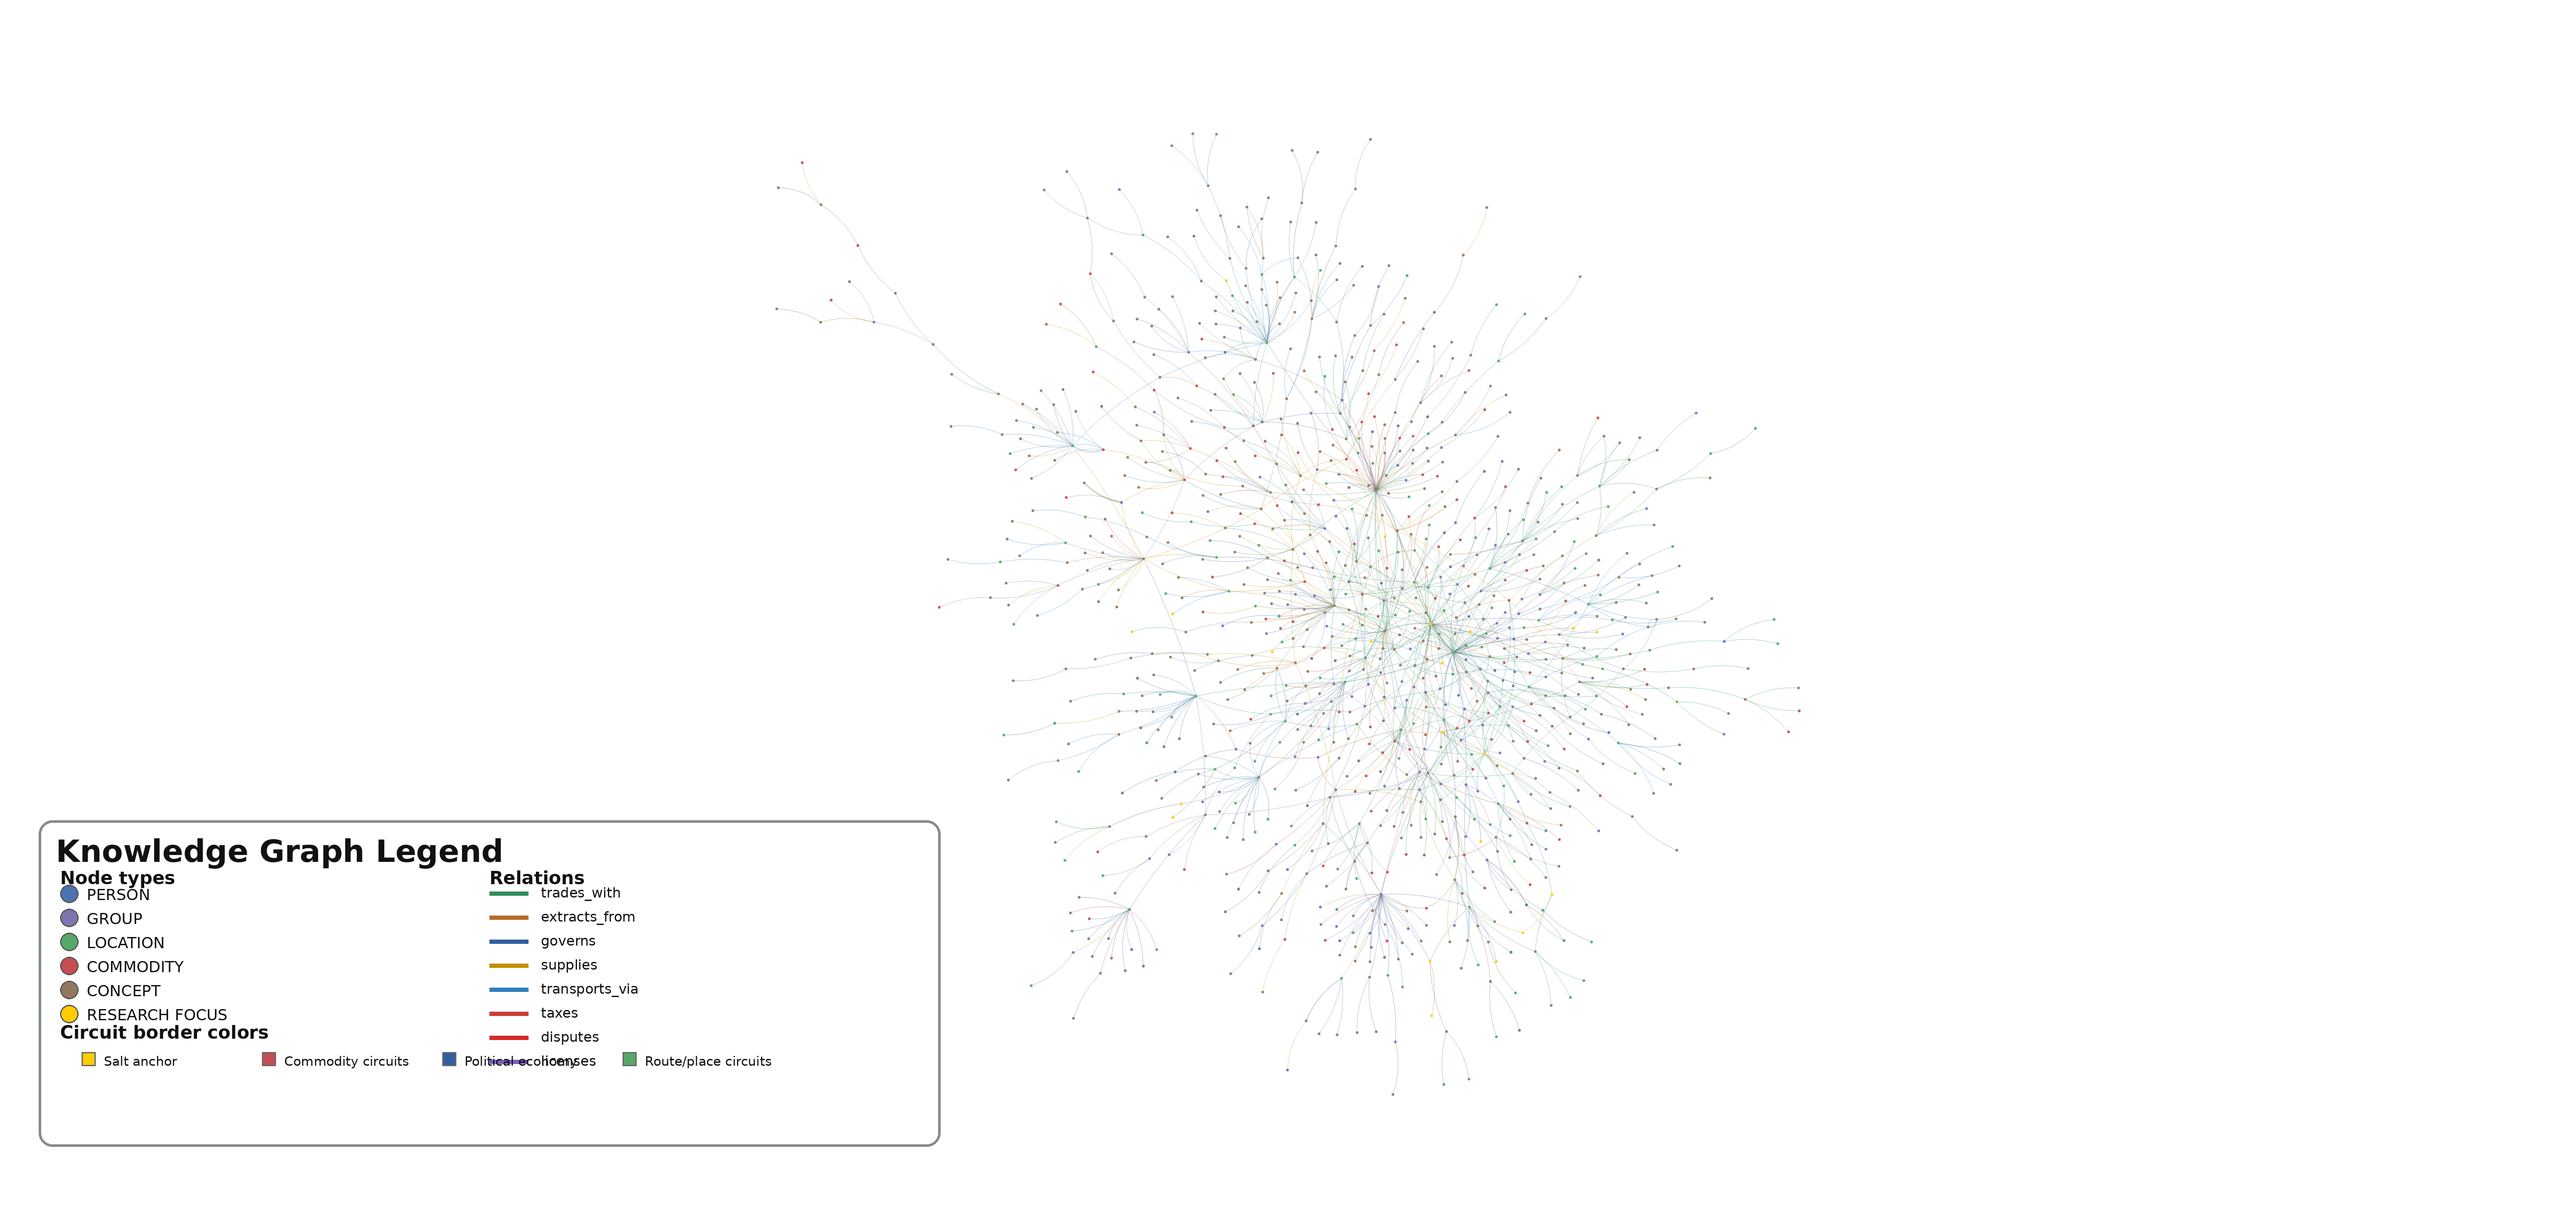
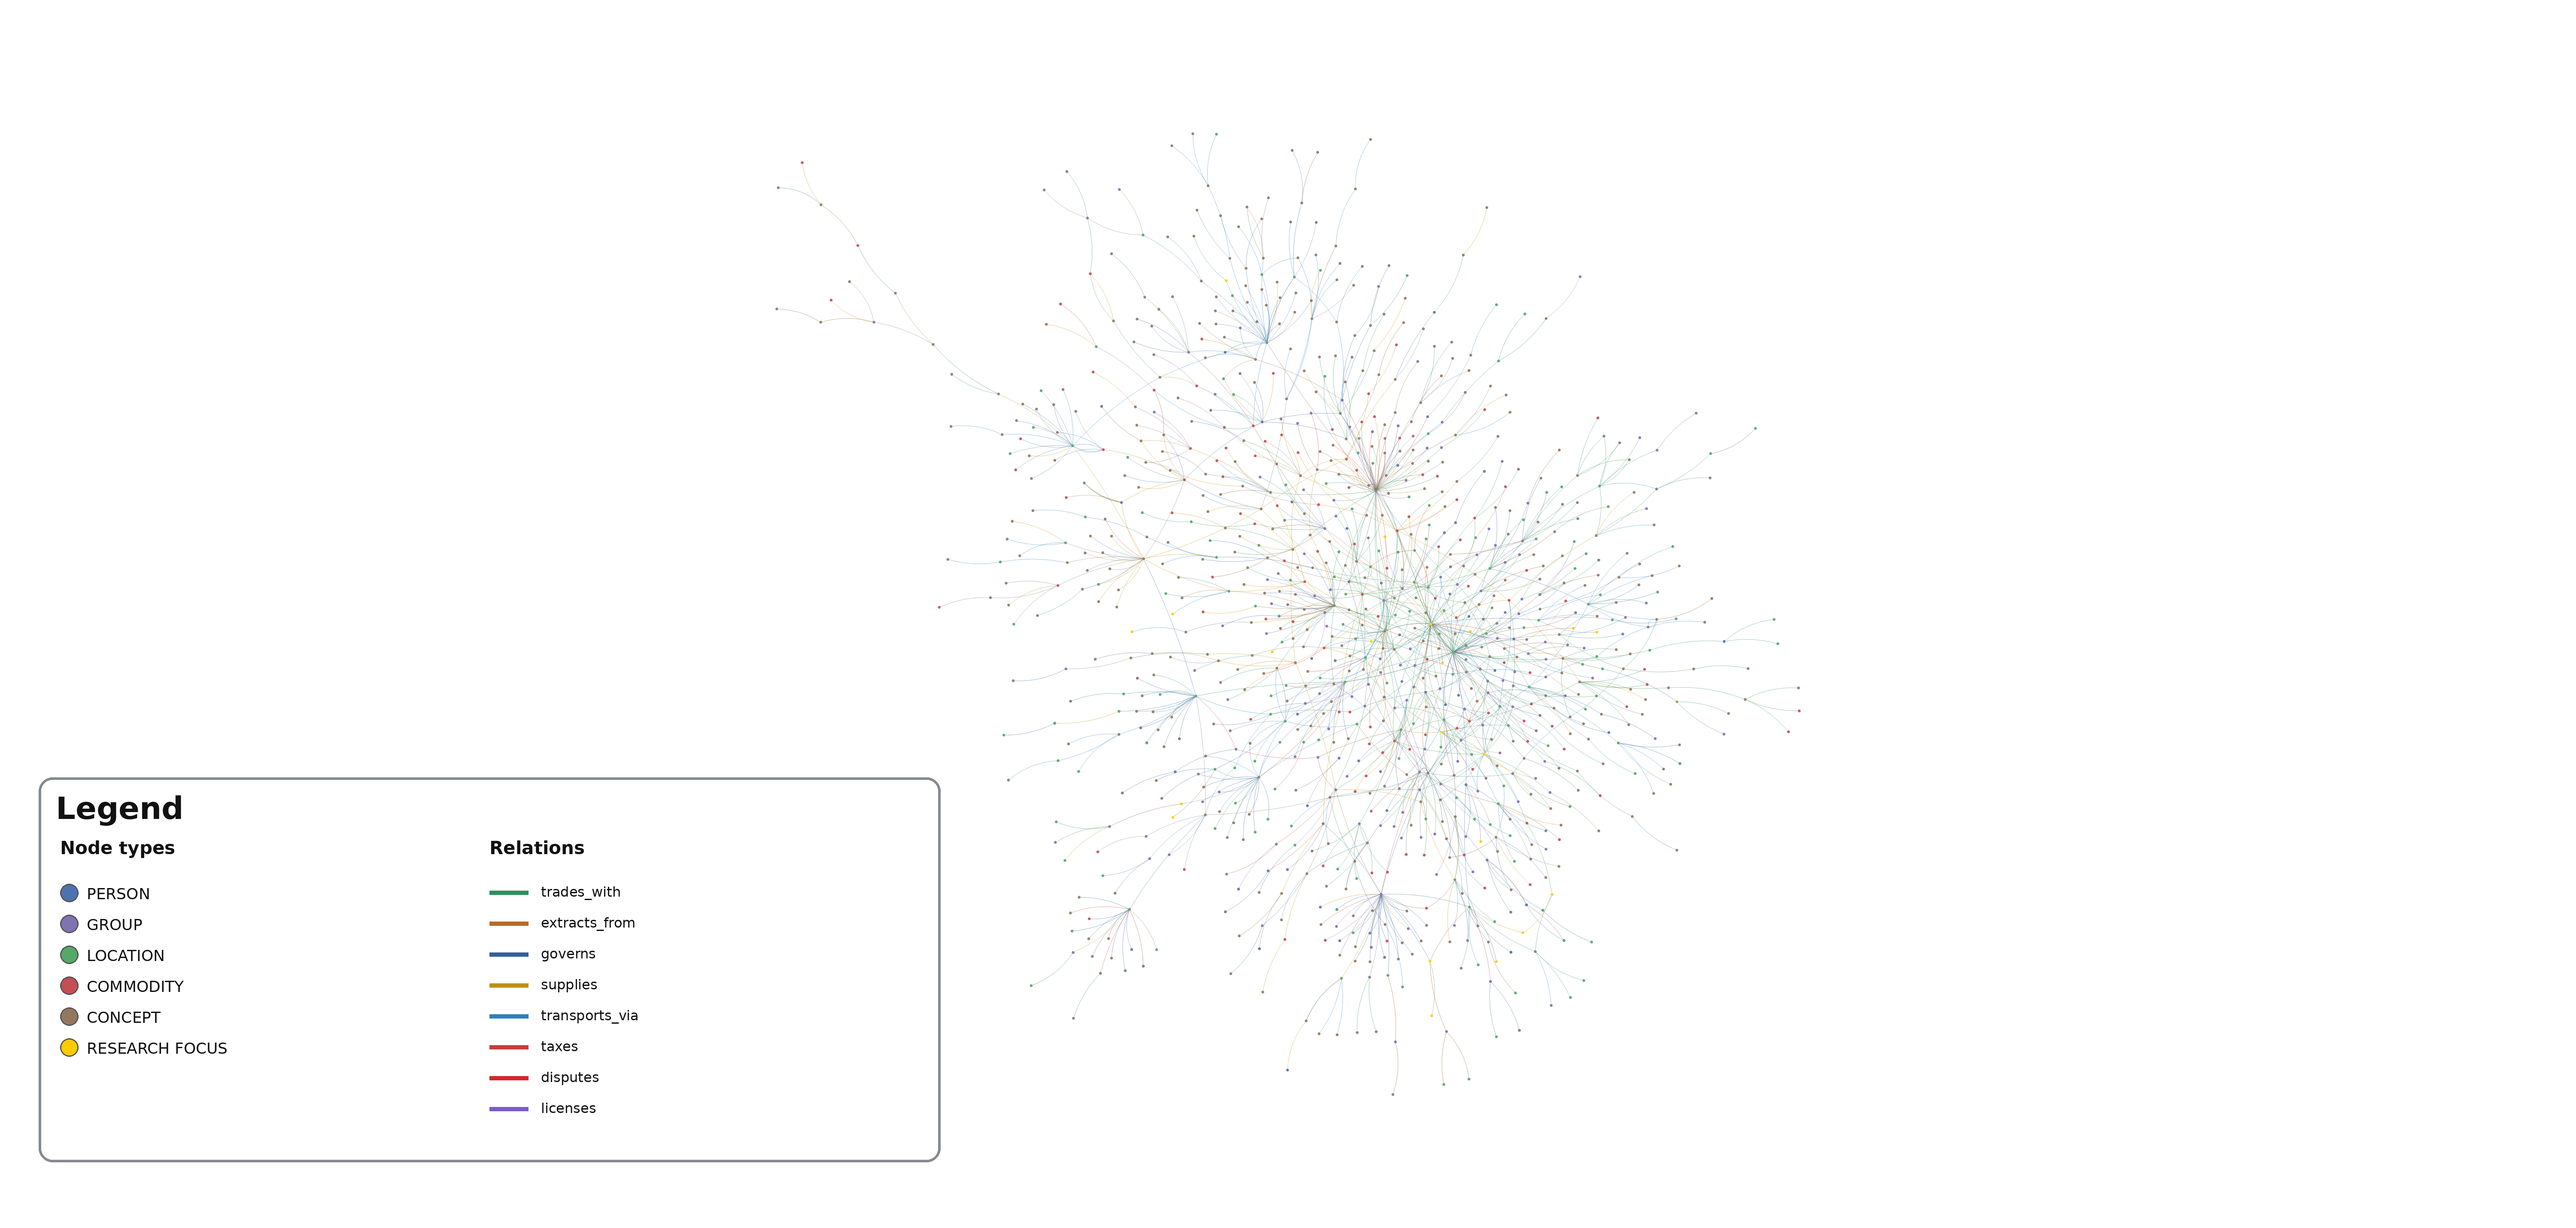
Legends Fixed

Changed region(s): [[0.0, 0.6533, 0.2493, 0.9332]]

diff --git a/Bibliography/Diagrams/paper_pngs/add_figure_legends.py b/Bibliography/Diagrams/paper_pngs/add_figure_legends.py
@@ -57,14 +57,8 @@ def add_legend(path: Path):
     img = Image.open(path).convert('RGBA')
     h = img.size[1]
 
-    x0, y0 = 90, max(80, h - 950)
+    x0, y0 = 90, max(80, h - 1050)
     box_w, box_h = 2100, 760
-
-    overlay = Image.new('RGBA', img.size, (0, 0, 0, 0))
-    draw = ImageDraw.Draw(overlay)
-    draw.rounded_rectangle((x0, y0, x0 + box_w, y0 + box_h), radius=32, fill=BOX_BG, outline=BOX_BORDER, width=6)
-
-    draw.text((x0 + 40, y0 + 30), 'Knowledge Graph Legend', fill=TEXT, font=font(72, bold=True))
 
     node_items = [
         ('PERSON', NODE_COLORS['PERSON']),
@@ -75,13 +69,55 @@ def add_legend(path: Path):
         ('RESEARCH FOCUS', NODE_COLORS['FOCUS']),
     ]
 
+    # Layout parameters (for measurement)
     x = x0 + 50
-    y = y0 + 150
-    draw.text((x, y - 40), 'Node types', fill=TEXT, font=font(42, bold=True))
+    y = y0 + 200
+    header_font = font(42, bold=True)
+    section_gap = 28
+    header_to_items_gap = 48
+    item_gap = 72
+
+    # Relation items (needed for measurement)
+    relation_items = [
+        ('trades_with', EDGE_COLORS['trades_with']),
+        ('extracts_from', EDGE_COLORS['extracts_from']),
+        ('governs', EDGE_COLORS['governs']),
+        ('supplies', EDGE_COLORS['supplies']),
+        ('transports_via', EDGE_COLORS['transports_via']),
+        ('taxes', EDGE_COLORS['taxes']),
+        ('disputes', EDGE_COLORS['disputes']),
+        ('licenses', EDGE_COLORS['licenses']),
+    ]
+
+    # Measure vertical space required by node and relation columns
+    y_nodes_end = y + header_to_items_gap + item_gap * len(node_items)
+    y2_start = y0 + 200
+    y_rels_end = y2_start + header_to_items_gap + item_gap * len(relation_items)
+
+    content_bottom = max(y_nodes_end, y_rels_end) + 32
+    needed_height = content_bottom - y0 + 40
+    box_h = max(box_h, int(needed_height))
+
+    # Now create overlay and draw background rectangle and title behind content
+    overlay = Image.new('RGBA', img.size, (0, 0, 0, 0))
+    draw = ImageDraw.Draw(overlay)
+    draw.rounded_rectangle((x0, y0, x0 + box_w, y0 + box_h), radius=32, fill=BOX_BG, outline=BOX_BORDER, width=6)
+    draw.text((x0 + 40, y0 + 30), 'Legend', fill=TEXT, font=font(72, bold=True))
+
+    # Layout parameters (computed to avoid overlaps)
+    x = x0 + 50
+    y = y0 + 200
+    header_font = font(42, bold=True)
+    section_gap = 28
+    header_to_items_gap = 48
+    item_gap = 72
+
+    draw.text((x, y - 60), 'Node types', fill=TEXT, font=header_font)
+    y += header_to_items_gap
     for label, color in node_items:
         draw.ellipse((x, y, x + 42, y + 42), fill=color, outline=(0, 0, 0, 170), width=3)
         draw.text((x + 62, y + 2), label, fill=TEXT, font=font(36))
-        y += 56
+        y += item_gap
 
     relation_items = [
         ('trades_with', EDGE_COLORS['trades_with']),
@@ -95,20 +131,13 @@ def add_legend(path: Path):
     ]
 
     x2 = x0 + 1050
-    y2 = y0 + 150
-    draw.text((x2, y2 - 40), 'Relations', fill=TEXT, font=font(42, bold=True))
+    y2 = y0 + 200
+    draw.text((x2, y2 - 60), 'Relations', fill=TEXT, font=header_font)
+    y2 += header_to_items_gap
     for label, color in relation_items:
         draw.line((x2, y2 + 20, x2 + 90, y2 + 20), fill=color, width=10)
         draw.text((x2 + 120, y2), label, fill=TEXT, font=font(32))
-        y2 += 56
-
-    draw.text((x0 + 50, y0 + 470), 'Circuit border colors', fill=TEXT, font=font(42, bold=True))
-    cx = x0 + 100
-    cy = y0 + 540
-    for name, color in list(CIRCUIT_COLORS.items())[:4]:
-        draw.rectangle((cx, cy, cx + 32, cy + 32), fill=color, outline=(0, 0, 0, 150), width=3)
-        draw.text((cx + 52, cy + 4), name, fill=TEXT, font=font(30))
-        cx += 420
+        y2 += item_gap
 
     result = Image.alpha_composite(img, overlay)
     result = result.convert('RGB')
